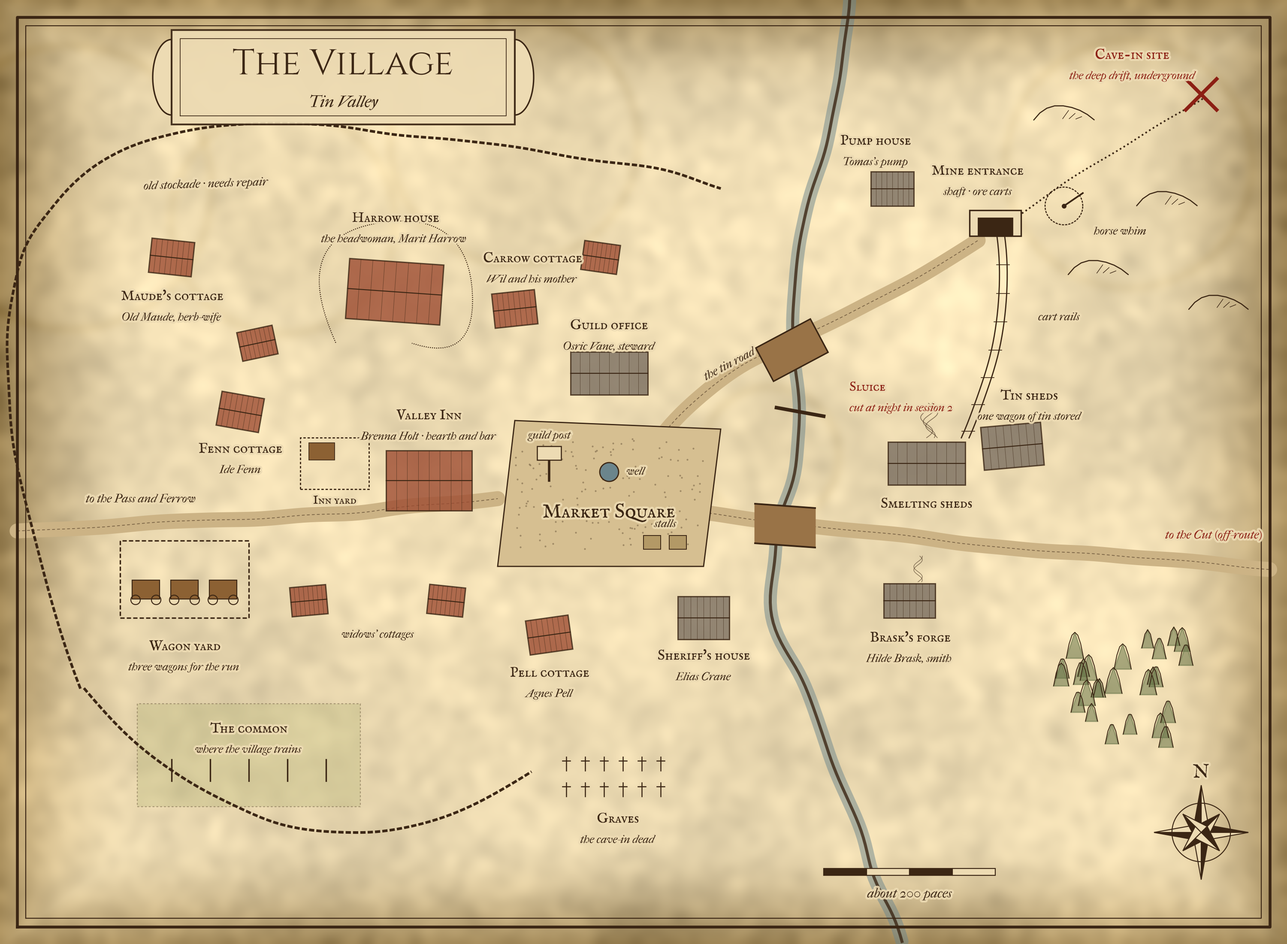
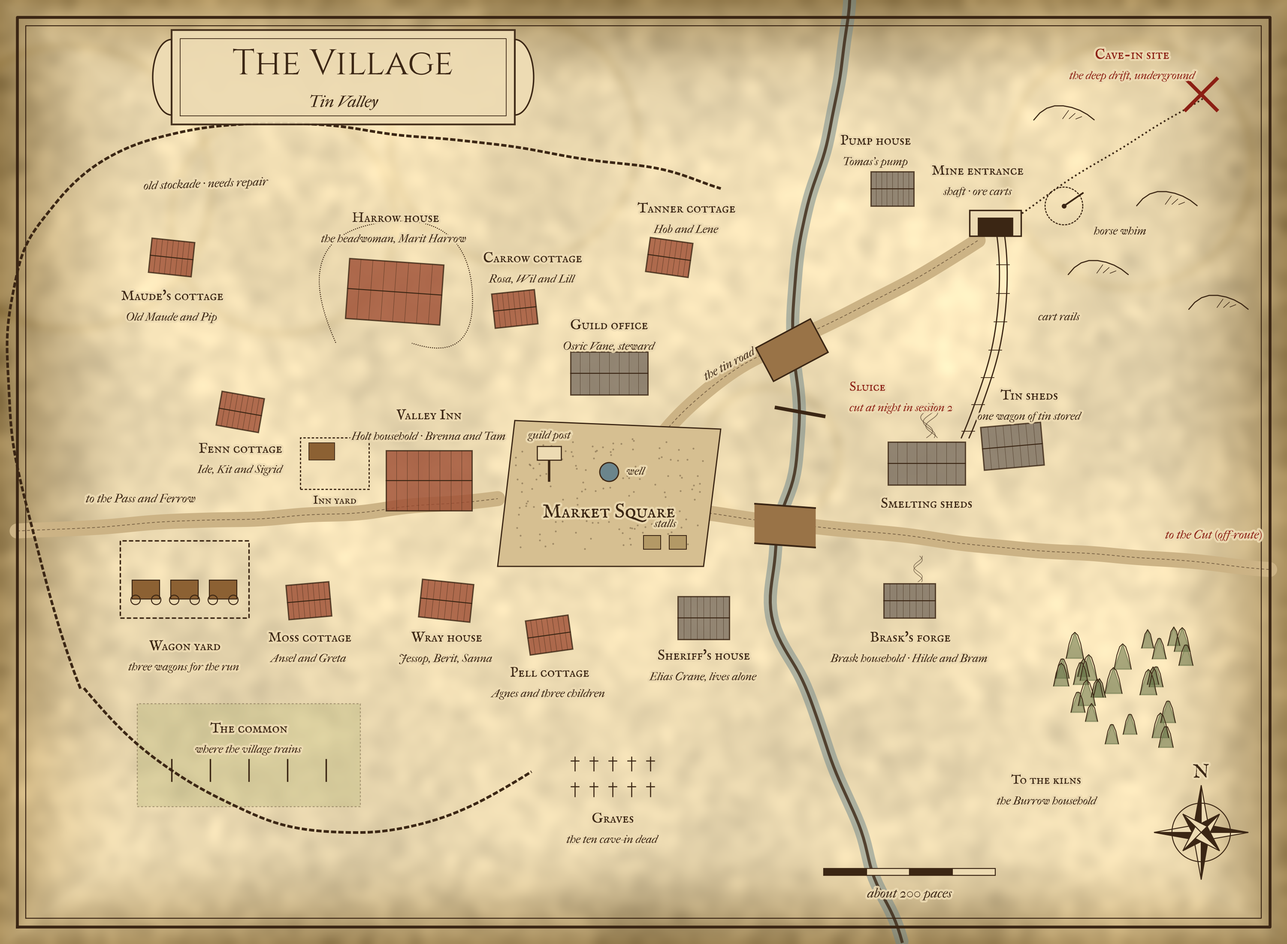
docs(adventures): rescale Tin Valley to a family mine of 11 households
- 44 people before the cave-in, 10 dead, 7 widows, 34 now
- household and role tables; 7 underground now (2 hired)
- recomputed wagon timing and training slack; 3 wagons and 60 g loan kept
- session 4 vote per household; supporting cast trimmed to households
- village and valley maps relabelled and regenerated

diff --git a/docs/adventures/swords-of-tin-valley/maps/src/village.py b/docs/adventures/swords-of-tin-valley/maps/src/village.py
@@ -42,16 +42,17 @@ for sx in (76,79):
     ax.add_patch(plt.Rectangle((sx-1,46),2,1.6,color=(0.7,0.6,0.4),ec=INK,lw=0.7,zorder=5))
 label(ax,77.5,48.9,"stalls",size=9.5,style="italic")
 # buildings
-bldg(50,54,10,7); cap(50,61.5,"Valley Inn","Brenna Holt · hearth and bar")
+bldg(50,54,10,7); cap(50,61.5,"Valley Inn","Holt household · Brenna and Tam")
 bldg(71,66.5,9,5,roof=GREY); cap(71,72,"Guild office","Osric Vane, steward")
 bldg(46,76,11,7,rot=-4); cap(46,84.5,"Harrow house","the headwoman, Marit Harrow")
 ax.plot(*wobble([(39,70),(39,82),(53,82),(53,70),(48,70)],0.1),color=INK,lw=0.8,ls=(0,(1,1.2)),zorder=5)  # yard fence
-bldg(82,38,6,5,roof=GREY); cap(82,33.5,"Sheriff's house","Elias Crane")
-bldg(64,36,5,4,rot=8); cap(64,31.5,"Pell cottage","Agnes Pell")
-bldg(28,62,5,4,rot=-10); cap(28,57.6,"Fenn cottage","Ide Fenn")
-bldg(60,74,5,4,rot=6); cap(62,79.8,"Carrow cottage","Wil and his mother")
-for (x,y,r) in [(36,40,5),(52,40,-6),(30,70,12),(70,80,-8)]: bldg(x,y,4.2,3.4,rot=r)
-label(ax,44,36,"widows' cottages",size=9.5,style="italic")
+bldg(82,38,6,5,roof=GREY); cap(82,33.5,"Sheriff's house","Elias Crane, lives alone")
+bldg(64,36,5,4,rot=8); cap(64,31.5,"Pell cottage","Agnes and three children")
+bldg(28,62,5,4,rot=-10); cap(28,57.6,"Fenn cottage","Ide, Kit and Sigrid")
+bldg(60,74,5,4,rot=6); cap(62,79.8,"Carrow cottage","Rosa, Wil and Lill")
+bldg(36,40,5,4,rot=5); cap(36,35.6,"Moss cottage","Ansel and Greta")
+bldg(52,40,6,4.4,rot=-6); cap(52,35.6,"Wray house","Jessop, Berit, Sanna")
+bldg(78,80,5,4,rot=-8); cap(80,85.6,"Tanner cottage","Hob and Lene")
 # wagon yard
 ax.add_patch(plt.Rectangle((14,38),15,9,fill=False,ec=INK,lw=1.2,ls=(0,(3,1.5)),zorder=5))
 for wx in (17,21.5,26):
@@ -68,10 +69,10 @@ x,y=wobble(stock,0.2); ax.plot(x,y,color=INK,lw=2.2,zorder=4,ls=(0,(2,0.8)))
 x2,y2=wobble([(10,30),(40,13),(62,20)],0.2); ax.plot(x2,y2,color=INK,lw=2.2,zorder=4,ls=(0,(2,0.8)))
 label(ax,24,88.5,"old stockade · needs repair",size=10,style="italic",rot=2)
 # graves
-for gx in np.arange(66,79,2.2):
+for gx in np.arange(67,77,2.2):
     for gy in (18,21):
         ax.plot([gx,gx],[gy-0.8,gy+0.8],color=INK,lw=0.9,zorder=5); ax.plot([gx-0.45,gx+0.45],[gy+0.35,gy+0.35],color=INK,lw=0.9,zorder=5)
-cap(72,14.5,"Graves","the cave-in dead")
+cap(71.4,14.5,"Graves","the ten cave-in dead")
 # bridge
 for d in (-2.3,2.3): ax.plot([88,95],[49+d,48.5+d],color=INK,lw=1.4,zorder=7)
 ax.fill([88,95,95,88],[46.7,46.2,50.8,51.3],color=(0.6,0.45,0.28),zorder=6.9)
@@ -107,9 +108,9 @@ label(ax,39,51.6,"Inn yard",size=10,font=SC)
 bldg(106,40,6,4,roof=GREY)
 for k in range(2):
     t=np.linspace(0,1,20); ax.plot(107+0.5*np.sin(t*8+k),42.2+t*3,color=INK,lw=0.5,alpha=0.6,zorder=6)
-cap(106,35.6,"Brask's forge","Hilde Brask, smith")
+cap(106,35.6,"Brask's forge","Brask household · Hilde and Bram")
 # Maude's cottage (canon)
-bldg(20,80,5,4,rot=-6); cap(20,75.4,"Maude's cottage","Old Maude, herb-wife")
+bldg(20,80,5,4,rot=-6); cap(20,75.4,"Maude's cottage","Old Maude and Pip")
 # horse whim at the shaft
 th=np.linspace(0,2*np.pi,50); ax.plot(124+2.2*np.cos(th),86+2.2*np.sin(th),color=INK,lw=0.9,ls=(0,(2,1)),zorder=6)
 ax.plot([124,126.2],[86,87.5],color=INK,lw=1.4,zorder=6); ax.plot(124,86,"o",ms=3,color=INK,zorder=6)
@@ -121,6 +122,7 @@ label(ax,85,67.5,"the tin road",size=10,style="italic",rot=28)
 # hills NE
 for (hx,hy) in [(128,78),(136,86),(142,74),(124,96)]: hill(ax,hx,hy,s=3.5)
 forest(ax,132,30,9,8,n=26,s=1.4,conifer=True)
+cap(122,19,"To the kilns","the Burrow household",size=11)
 border(ax,W,H)
 cartouche(ax,40,101,"The Village","Tin Valley",w=40,h=11)
 compass(ax,140,13,r=5.5)

diff --git a/docs/adventures/swords-of-tin-valley/maps/src/valley.py b/docs/adventures/swords-of-tin-valley/maps/src/valley.py
@@ -40,7 +40,7 @@ def house(x,y,w=2.2,h=1.6,roof=RED):
     ax.fill([x-w/2-0.3,x,x+w/2+0.3],[y+h/2,y+h/2+1.2,y+h/2],color=roof,alpha=0.75,ec=INK,lw=0.6,zorder=6.1)
 for (x,y) in [(68,50),(71,53),(74,49),(72,46),(66,46.5),(76,53),(77,46)]: house(x,y)
 label(ax,72,41.5,"The village",size=18,font=SC)
-label(ax,72,38.6,"Market Square · Valley Inn · headwoman's house",size=10,style="italic")
+label(ax,72,38.6,"eleven households · about 34 souls",size=10,style="italic")
 label(ax,62.5,53.5,"Valley Inn",size=11,font=SC,ha="right")
 label(ax,62.5,51,"at the foot of the tin road",size=9,style="italic",ha="right")
 # wagon yard
@@ -49,9 +49,9 @@ for dx in (58.2,60.8):
     ax.add_patch(plt.Rectangle((dx-0.8,45),1.6,1,color=(0.55,0.38,0.2),ec=INK,lw=0.5,zorder=6.2))
 label(ax,59.5,42.2,"Wagon yard",size=10,font=SC)
 # graves
-for gx,gy in [(68,32),(70,32.5),(72,31.8),(69,30),(71,30.4),(73,30.2),(74,32.2)]:
+for gx,gy in [(67,32),(69,32.4),(71,31.8),(73,32.3),(75,31.9),(67.6,29.9),(69.6,30.3),(71.6,29.8),(73.6,30.2),(75.6,29.9)]:
     ax.plot([gx,gx],[gy-0.6,gy+0.6],color=INK,lw=0.8,zorder=6); ax.plot([gx-0.35,gx+0.35],[gy+0.25,gy+0.25],color=INK,lw=0.8,zorder=6)
-label(ax,71,27.6,"Graves of the cave-in dead",size=10,style="italic")
+label(ax,71,27.6,"Graves of the ten cave-in dead",size=10,style="italic")
 # smelting sheds and sluice
 for (x,y) in [(90,58),(93,57)]: house(x,y,w=2.6,h=1.5,roof=(0.4,0.35,0.3))
 for k in range(3):
@@ -95,7 +95,7 @@ for kx,ky in [(105,26.5),(109,25),(107.5,29)]:
     t=np.linspace(0,np.pi,30); ax.fill(kx+1.6*np.cos(t),ky+1.1*np.sin(t),color=(0.35,0.3,0.25),ec=INK,lw=0.8,zorder=6.5)
     tt=np.linspace(0,1,20); ax.plot(kx+0.4*np.sin(tt*9),ky+1.1+tt*2.5,color=INK,lw=0.5,alpha=0.6,zorder=6.5)
 label(ax,112,27,"Charcoal kilns",size=11,font=SC,ha="left")
-label(ax,112,24.7,"Tilda Burrow's family",size=9,style="italic",ha="left")
+label(ax,112,24.7,"the Burrow household",size=9,style="italic",ha="left")
 # fields
 for fx0,fy0 in [(52,56),(56,59),(60,62)]:
     for k in range(4):

diff --git a/docs/adventures/swords-of-tin-valley.md b/docs/adventures/swords-of-tin-valley.md
@@ -1,6 +1,6 @@
 # Swords of Tin Valley
 
-Status: design draft. It extends the idea doc of 2026-10-15 with Fredrik's decisions of 2026-10-15 and 2026-10-16 (population, no gunpowder, the Ferrow hook).
+Status: design draft. It extends the idea doc of 2026-10-15 with Fredrik's decisions of 2026-10-15 and 2026-10-16 (a small family mine of 11 households, no gunpowder, the Ferrow hook).
 World: [Tin Valley](../worlds/tin-valley/).
 Inspiration: *Seven Samurai* (Kurosawa, 1954), *Godless* (Netflix, 2017), and George R. R. Martin's way with factions.
 Format: solo player. About 4 to 6 sessions.
@@ -28,7 +28,7 @@ This adventure builds relationships with NPCs over several sessions. The finale 
 
 The village tin mine is very rich. The Miners Guild wants it. The village has always refused to let the guild in.
 
-Last spring a cave-in killed 27 of the 32 men who worked underground. One of the dead was Tomas Harrow. He led the refusal. Now the widows run the mine and the village, with old men, older boys and a few hired hands (see "Village and valley population").
+The village is small: 11 families, about 44 people. Last spring a cave-in killed 10 of the 12 men who worked underground. One of the dead was Tomas Harrow. He led the refusal. Now the widows run the mine and the village, with an old man, two survivors, the older children and two hired hands (see "Village and valley population").
 
 Before he died, Tomas borrowed 60 gold from the Coldwater counting house in Ferrow, the market town beyond the pass. He paid for a water-wheel pump and its rod line, so the village could dig deeper without the guild. The loan falls due at the winter reckoning.
 
@@ -95,11 +95,11 @@ The mine is worked the old way. There is no gunpowder and no blasting.
 - **Smelting.** The tin ore is smelted with charcoal in the smelting sheds. Tin ore needs no long roasting, unlike the Swedish copper ores below. (Design assumption, not from the sources.)
 - **Fuel.** The fires, the smelting and the props all need wood. Woodcutters and charcoal burners work in the timber wood above the mine. Every household owes some days of wood and charcoal work.
 
-All of this is shown in fiction, never as rules text. It gives the GM real things to sabotage, repair and argue about: the woodpile, the sluice, the whim horses, the props, the charcoal kilns.
+All of this is shown in fiction, never as rules text. It gives the GM real things to sabotage, repair and argue about: the woodpile, the sluice, the whim horse, the props, the charcoal kilns.
 
 ## Village and valley population
 
-The 12 NPCs in the cast are the main active cast. But a mine cannot run on a handful of people. The village needs a believable population around them, so the GM can fill scenes.
+The 13 NPCs in the cast are the main active cast. Even a small family mine needs every household, so the village needs a believable population around them. This lets the GM fill scenes.
 
 ### What the sources say
 
@@ -127,86 +127,87 @@ We looked at Swedish copper mines before machines and gunpowder. Fröå gruva ou
 
 ### What we take from this
 
-- **Ratios, not totals.** Falun used about 4 to 5 men for each daily fire, counting breaking and moving the rock. Fröå had roughly 8 to 9 people in the community for each worker at the mine (618 people in 1768 against 73 at one shaft in 1779; different years, so this is rough). Falun's full chain, with distant fuel workers, came to 15 or more people per mine and furnace worker.
-- **Tin Valley is a small Fröå.** It is a farming village with a mine, not a mining town. We use about 8 people per mine worker. Fuel work is shared out as part-time duty across all households, as at Fröå, instead of a large full-time fuel crew as at Falun.
+Tin Valley is not a company works like Fröå or Falun. It is a small family mine: 11 families and a lone sheriff, about 44 people before the cave-in. The research still shapes it:
+
+- **The croft pattern (Fröå).** Every household farms a little, and the women do most of it. Every household owes days of wood, charcoal and carting. A household with no one at the mine loses out (the Fröå poorhouse rule).
+- **The fire ratio (Falun).** Falun needed about 4 to 5 men for each daily fire, counting breaking and moving the rock. Tin Valley's 8 breakers kept about 2 fires a night. Today's 4 keep 1.
+- **Fewer hands per worker.** Fröå had roughly 8 to 9 people in the community per worker at the mine (618 people in 1768 against 73 at one shaft in 1779; different years, so this is rough). Tin Valley had under 4 (44 people, 12 underground). A family mine has no company specialists, officials or distant fuel suppliers. Everyone does two jobs.
 - **Smaller fires.** The drifts are narrow, so we assume fires of about 1 m³ of wood each, not Falun's 5 m³. (Design assumption.)
 
-### Headcount, before and after the cave-in
+### Households
 
-Before the cave-in the valley had **about 280 people in about 48 households**. Today, on day 1, it has **about 250**. The cave-in killed 27 men. One family has since left for Ferrow.
+Eleven families, plus the sheriff, who lives alone. Before the cave-in: **44 people**. The cave-in killed **10**. Now: **34**.
 
-| Group | Before the cave-in | Now (day 1) | Notes |
+| # | Household | Before | Lost in the cave-in | Now | Who works where now |
+| --- | --- | --- | --- | --- | --- |
+| 1 | **Harrow** (Harrow house) | Tomas, Marit, Elin 16, Ebba 9 | Tomas | 3 | Marit keeps the tally and leads the village. Elin is in Ferrow on day 1, then sorts and carts. |
+| 2 | **Carrow** | Jon, Rosa, Wil 12, Lill 6 | Jon | 3 | Rosa sorts ore. Wil wants to go underground. |
+| 3 | **Pell** | Davy, Agnes, three children under 7 | Davy | 4 | Agnes farms and sorts. She has no one to send underground. |
+| 4 | **Fenn** | Aron, Ide, Kit 15, Sigrid 11 | Aron | 3 | Kit carries ore underground. Ide sorts and burns charcoal. |
+| 5 | **Wray** | Jessop 61, Berit 58, their son Per, his wife Sanna, two children | Per | 5 | Jessop leads underground again. Sanna carries ore. Berit runs the sorting floor. |
+| 6 | **Moss** | Ansel 27, his brother Tor, Ansel's wife Greta, a baby | Tor | 3 | Ansel sets fires and props. Greta farms for two households. |
+| 7 | **Tanner** | Gunnar 55, his son Hob 34, Hob's wife Lene, two children | Gunnar | 4 | Hob, lamed, drives the whim horse. Lene carts. |
+| 8 | **Burrow** (at the kilns) | Edvin, Tilda 45, Oskar 17, Liv 14 | Edvin and Oskar | 2 | Tilda and Liv burn charcoal and cut wood. |
+| 9 | **Brask** (the forge) | Rolf, Hilde, her nephew Bram 18 | Rolf | 2 | Hilde smiths and smelts. Bram now breaks rock underground. |
+| 10 | **Holt** (Valley Inn) | Brenna, her nephew Tam 14 | none | 2 | Brenna keeps the inn and lodges the two hired day-men. |
+| 11 | **Old Maude's cottage** | Old Maude, her grandson Pip 15 | none | 2 | Maude heals. Pip runs errands, or runs with the Tinjacks if that extension is on. |
+| – | **Sheriff's house** | Elias Crane, alone | none | 1 | Crane dug out the dead. |
+| | **Total** | **44** | **10** | **34** | |
+
+The guild's people in the valley (Osric, a clerk and Caldern) are not counted.
+
+### Work by role
+
+Most jobs are shared across households. The numbers are rough full-time equivalents.
+
+| Role | Before the cave-in | Now (day 1) | Who now |
 | --- | --- | --- | --- |
-| Fire-setters and breakers | 18 | 6 | Now Jessop Wray, 2 able survivors and 3 hired day-men. Only Jessop and Ansel can lay a fire that cracks the face and not the roof. |
-| Ore carriers in the drifts | 8 | 8 | Now 6 older boys (14 to 16) and 2 widows. The village argues about the widows going down. |
-| Shaft crew at the horse whim | 3 | 1 | Plus 2 whim horses. One hired day-man. |
-| Timbermen (props) | 2 | 1 | Now Ansel Moss, who also sets fires. |
-| Foreman | 1 | 0 | The foreman died. Jessop leads, unofficially. |
-| **Underground total** | **32** | **16** | Before, a wagon of tin took 2 to 3 days. Now it takes about 5. |
-| Sorters | 12 | 16 | Women, children, old men. Now also the two crippled survivors and more widows. |
-| Pump and whim keeper | 1 | 1 | Simeon Rudd. |
-| Smiths | 2 | 2 | Hilde Brask and her nephew. Picks, wedges and sledges need constant work. |
-| Smelters | 4 | 4 | Garth Hollin and three hands. They work at the sheds, so all survived. |
-| Woodcutters | 8 | 6 | Two left for wages in Ferrow. |
-| Charcoal burners | 4 | 4 | Tilda Burrow's family, at the kilns in the timber wood. Every household also owes wood and charcoal days in autumn. |
-| Carters | 4 | 3 | Nan Tolley and two others. Old Rook rejoins if hired. |
-| Full-time farmers | about 12 (6 households) | about 12 | Every other household also keeps a plot, cows, sheep and goats. The women do most of it. |
-| Inn, healer, sheriff | 6 | 6 | Brenna, Tam and two hands. Old Maude. Sheriff Crane. |
-| Elders (60+) not working | about 20 | about 20 | Some, like Jessop, came back to work. |
-| Children under 14 | about 110 | about 110 | About 50 have lost a father. |
-| Guild people in the valley | 3 | 3 | Osric, a clerk and Caldern. Not counted in the village total. |
-
-The groups overlap. Many people do two jobs, and the totals are rounded.
+| Fire-setters and breakers | 8 | 4 | Jessop, Ansel, Bram, one day-man. Only Jessop and Ansel can lay a fire that cracks the face and not the roof. |
+| Ore carriers in the drifts | 3 | 3 | Kit, Sanna, one day-man. The village argues about a widow going down. |
+| Foreman and timberman | 1 (Tomas) | shared | Jessop leads. Ansel sets the props. |
+| **Underground total** | **12** | **7** | Including 2 hired day-men from Ferrow. |
+| Whim and pump | 1 (Jessop) | 1 | Hob, who cannot go down any more. |
+| Sorting | about 4 | about 4 | Berit leads. Rosa, Agnes, Ide, Elin and the children. |
+| Smithing and smelting | 2 | 1 to 2 | Hilde, with whoever she can borrow. |
+| Charcoal and wood | about 3 | about 2 | The Burrows, plus every household's duty days. |
+| Carting | shared | shared | Lene, Elin and the Wray and Tanner horses. Old Rook if hired. |
+| Farming | everyone | everyone | Mostly the women. Greta and Agnes carry the most. |
 
 ### What the cave-in changed
 
-- **27 dead, 21 widows.** Six of the dead were unmarried.
-- **Half the crew, half the skill.** The underground crew is half its old size, and many of them are boys, widows or hired men. Output has halved.
-- **Hired labour costs.** The 4 Ferrow day-men are paid about 24 copper a day each in tin and board (unskilled day rate, `rules/economy.md`). Over 30 days that is nearly 6 gold, the price of two more fighters. Cutting them frees money and costs tin. That is a real choice for the player.
-- **Who gets a share.** By the village's old custom, a household shares in the tin only if someone from it works the mine. (This mirrors the Fröå rule that a croft with no worker went to the poorhouse.) Agnes has no one old enough, which is one reason she wants to sell. Ide keeps her share because her son Kit carries ore. Wil wants to go down the mine to keep the Carrow share, and his mother will not let him.
-- **Every fighter in training is a worker lost.** See the rule of thumb under "The deadline clock".
+- **10 dead, 7 widows.** Seven of the 11 families lost a husband and father: Marit, Rosa, Agnes, Ide, Sanna, Tilda and Hilde are widows. Nine families lost someone. Tilda lost a husband and a son. Twelve children lost their father.
+- **Half the crew, less skill.** The underground crew fell from 12 to 7. Two of the 7 are hired and two are young. Only two people left know how to lay a safe fire.
+- **Hired labour costs.** The 2 Ferrow day-men (Lem Drury and another) are paid about 24 copper a day each in tin and board (unskilled day rate, `rules/economy.md`). Over 30 days that is about 2.9 gold, roughly one fighter's wage. Cutting them frees that money, but it costs about 4 days on the third wagon (see "The deadline clock"). It is a real choice, and usually a bad trade.
+- **Who gets a share.** By the village's old custom, the tin is shared by the hands each household puts into the mine, and underground hands count double. (This mirrors the Fröå rule that a croft with no worker went to the poorhouse.) Agnes has no one to send, so her share has almost gone. That is one reason she wants to sell. Ide keeps a share because Kit carries ore. Wil wants to go down to win back the Carrow share, and his mother will not let him.
+- **Every fighter in training is a worker lost.** With so few people, the player trains the same people who dig, sort and burn charcoal.
+- **Eleven votes.** Each household has one vote on selling. The sheriff has none.
 
 ### Supporting cast
 
-Short lines for the GM to fill scenes. OCEAN is given where it matters. The cast table above stays the main active cast. Names marked *canon* already exist in the Tin Valley inn-world pack (`priv/adventures/tin_valley/extensions/`).
-
-**The mine and the sheds**
-
-- **Jessop Wray**, 61, the old foreman, back at work. Wants the props done right this time. O 3, C 9, E 4, A 5, N 6.
-- **Berit Wray**, 58, his wife. Runs the sorting floor. Wants the children kept out of the drifts.
-- **Ansel Moss**, 27, survivor. He was at the shaft foot, not in the deep drift. Guilt. Believes it was the guild. O 5, C 6, E 3, A 5, N 8.
-- **Hob Tanner**, 34, survivor with a crushed leg. Now sorts ore. Wants to be useful. Drinks with Crane. O 4, C 5, E 5, A 6, N 8.
-- **Kit Fenn**, 15, Ide's son. Carries ore underground. Wants to be a man, and is afraid of the dark.
-- **Rosa Carrow**, Wil's mother. Sorts ore and has not spoken since the cave-in. Wants Wil away from swords and from the mine.
-- **Simeon Rudd**, pump and whim keeper. Worries about winter fodder for the whim horses, and about the sluice.
-- **Garth Hollin**, 50, smelter master. Wants a fair share. Osric has offered him a guild wage. O 5, C 7, E 4, A 4, N 5.
-- **Lem Drury**, hired Ferrow day-man. Wants a full wage. Gossips with guild men at the inn for drink.
-- **Hilde Brask** (*canon*), the smith. Keeps the picks and wedges sharp. Buys cheap tin and does not ask where it comes from.
-
-**Wood, roads and fields**
-
-- **Tilda Burrow**, 45, charcoal burner. Lives at the kilns. Sees who passes in the woods at night, Dace's men included.
-- **The Lunde brothers, Orm and Arvid**, woodcutters. Sell timber to the guild too. Want the best price.
-- **Nan Tolley**, 40, widow and carter. Wants a seat on a wagon in the run.
-- **Coll Pruett**, farmer. Sells food to the widows on credit. Worries they cannot pay.
-- **Mags Ferrow** (*canon*), a drover who works the roads. Her family name comes from the town. Hires out mules.
+Every named villager belongs to one of the households above. The main cast stays as it is. OCEAN is given where it matters. Names marked *canon* already exist in the Tin Valley inn-world pack (`priv/adventures/tin_valley/extensions/`).
 
 **The village**
 
-- **Old Maude** (*canon*), herb-wife and healer, the village's memory. She remembers that the guild tried once before, "and the Margrave's men sent them home". It is a soft lead to the charter.
-- **Tam Holt** (*canon*), 14, Brenna's nephew at the inn yard. Sees who comes and goes at night. Can spot Tobin with Osric's man.
-- **Pip** (*canon*), 15, Maude's grandson. Only if the Tinjacks extension is on. He is in too deep with Rusk's gang.
+- **Jessop Wray** (Wray), 61, the old foreman, back underground. Wants the props done right this time. O 3, C 9, E 4, A 5, N 6.
+- **Berit Wray** (Wray), 58, his wife. Runs the sorting floor. Wants the children kept out of the drifts.
+- **Sanna Wray** (Wray), Per's widow. Carries ore underground, against Berit's wishes. Wants her children to keep a share.
+- **Ansel Moss** (Moss), 27, survivor. He was at the shaft foot, not in the deep drift. Guilt. Believes it was the guild. O 5, C 6, E 3, A 5, N 8.
+- **Hob Tanner** (Tanner), 34, survivor with a crushed leg. Drives the whim horse. Wants to be useful. Drinks with Crane. O 4, C 5, E 5, A 6, N 8.
+- **Kit Fenn** (Fenn), 15, Ide's son. Carries ore underground. Wants to be a man, and is afraid of the dark.
+- **Rosa Carrow** (Carrow), Wil's mother. Sorts ore and has not spoken since the cave-in. Wants Wil away from swords and from the mine.
+- **Tilda Burrow** (Burrow), 45. Lost her husband and her son. Burns charcoal at the kilns with her daughter Liv. Sees who passes in the woods at night, Dace's men included. Leans towards selling.
+- **Hilde Brask** (Brask, *canon*), the smith, and now the smelter too. Buys cheap tin and does not ask where it comes from. Osric has offered her a guild wage.
+- **Bram Brask** (Brask), 18, her nephew. Left the forge to break rock. Strong, and new to fire.
+- **Old Maude** (Maude's cottage, *canon*), herb-wife and healer, the village's memory. She remembers that the guild tried once before, "and the Margrave's men sent them home". It is a soft lead to the charter.
+- **Tam Holt** (Holt, *canon*), 14, Brenna's nephew at the inn yard. Sees who comes and goes at night. Can spot Tobin with Osric's man.
+- **Pip** (Maude's cottage, *canon*), 15, Maude's grandson. Only if the Tinjacks extension is on. He is in too deep with Rusk's gang.
+- **Lem Drury**, hired Ferrow day-man, lodging at the inn (Holt). Wants a full wage. Gossips with guild men for drink.
 
-**Dace's hired blades**
+**Outside the village**
 
-- **Marten Cole**, Dace's second. Wants the bonus more than Dace does, and pushes harder. O 3, C 4, E 6, A 2, N 4.
-- **Fitch**, 17, the youngest blade. Scared. He is the frightened man who breaks the no-killing order in session 5, unless someone reached him first. O 5, C 3, E 4, A 6, N 9.
-
-**Ferrow**
-
-- **Pol Garrick**, keeper of the Drover's Rest. Wants no trouble in his yard.
-- **Silky Joss**, card sharp. He took Elin's gold. Wants the next mark, not a fight.
-- **Rafe and Dob Coker**, footpads (option B). Want their winter rent.
+- **Fitch**, 17, Dace's youngest blade. Scared. He is the frightened man who breaks the no-killing order in session 5, unless someone reached him first. O 5, C 3, E 4, A 6, N 9.
+- **Silky Joss**, card sharp at the Drover's Rest in Ferrow. He took Elin's gold.
+- **Rafe and Dob Coker**, Ferrow footpads (option B). Want their winter rent.
 - **Master Ambrose Quill**, the Ferrow lawyer who wrote to Tomas. Wants his fee before he searches the registry.
 
 **Texture from the sources.** Falun miners carried a silver coin as a charm against the dangers below. [6] Wil can carry his father's coin.
@@ -303,7 +304,23 @@ The guild's charter grants rights "to iron, copper and lead and the ores thereof
 
 The pass closes on day 30. The exact day is hidden. Snow portents start on day 24. The run takes three days. So the wagons should leave by day 26. Each day after that adds risk.
 
-The village needs three wagons of tin to cover 60 gold. Today it has one in the sheds. Each further wagon takes about 5 days of mining and smelting by today's crew (16 underground, see "Village and valley population"). Before the cave-in it took 2 to 3 days. Every worker the player trains to fight, or takes on an errand, is not digging. As a rule of thumb, each 3 underground workers taken off the work add 1 day per wagon. The charcoal and wood duties work the same way.
+The village needs three wagons of tin to cover 60 gold, at about 20 gold a wagon.
+
+- **Wagon 1** is already in the tin sheds.
+- **Wagon 2** is ore that was dug before the cave-in. It lies on the sorting floor, unsorted and unsmelted. It needs about 60 worker-days of surface work (sorting, charcoal, smelting) and one charcoal burn of about a week. The surface workers also farm, cook and mind children, so they give it about half their time. With no distractions it is ready around day 17.
+- **Wagon 3** must be dug from the rich face beside the old cave-in. It needs about 100 worker-days underground (7 workers for about 14 days), then about 4 days of smelting. With the full crew from day 5, digging ends on day 18 and smelting on day 22.
+
+Loading and the last checks take until day 25, so the wagons leave on day 26.
+
+**The slack is small.** There are about 3 spare days before the wagons must leave: about 21 underground worker-days. Rules of thumb:
+
+- Every 7 underground worker-days spent on training, errands or guard duty push wagon 3 back by one day.
+- Cutting the 2 hired day-men costs about 4 days. That alone eats all the slack.
+- Surface workers taken for training slow wagon 2 at about half that rate, because their time is already split.
+
+So the player can train the whole underground crew for about 3 days in total, or the surface folk for longer, before the dates break. Training the boys and widows means less tin. Leaving them untrained means a weaker defence. That is the trade-off.
+
+These are design numbers, tuned to the clock. They are not from the sources. A check against the world's labour-anchored prices (`rules/economy.md`): wagon 3 takes about 140 worker-days in all and sells for 20 gold, about 10 months of skilled pay. That fits a rich vein.
 
 A trip to Ferrow and back takes 6 days. It is the price of the banker and charter paths.
 
@@ -370,7 +387,7 @@ The player may choose the Ferrow trip here. It costs 6 days. In Ferrow there is 
 
 ### 4. Fractures (days 18 to 24)
 
-Agnes calls a vote to sell to the guild. Osric's offer is real money. Brenna backs her sister quietly. Marit cannot win the vote alone. The player's earlier tellings and kindnesses decide who votes how.
+Agnes calls a vote to sell to the guild. Osric's offer is real money. Each of the 11 households has one vote, so the winner needs 6. Agnes starts with 3 (Pell, Holt, because Brenna backs her sister quietly, and Burrow). Marit starts with 3 (Harrow, Fenn, Wray). The other 5 are open. The player's earlier tellings and kindnesses decide who votes how.
 
 The plant acts. Tobin is caught near the wagons, or he is not. If the player turned him, he warns them instead.
 
@@ -383,7 +400,7 @@ Snow on the high peaks. Old Rook says the pass has a week, maybe less.
 
 ### 5. The pass (days 25 to 28)
 
-The wagons go. The player chooses who rides with them and who stays. Dace's men harass the road: a felled tree, a spooked team, an arrow from the scree. The guild's orders forbid open killing. A frightened man breaks those orders anyway.
+The wagons go. The player chooses who rides with them and who stays. Three wagons need three drivers (Old Rook if hired, Lene Tanner, Elin). The village has only about 20 people old enough to hold a stave, the two day-men included. Every guard on the road is one fewer defender at the mine. Dace's men harass the road: a felled tree, a spooked team, an arrow from the scree. The guild's orders forbid open killing. A frightened man breaks those orders anyway.
 
 At the same time, Osric moves on the mine. The defenders are the villagers the player trained, and whoever stayed behind.
 
@@ -446,7 +463,7 @@ Examples of weighting:
 
 Examples of compression:
 
-- Day 3: "The stranger let me carry the water to the fighters and said I did it well."
+- Day 5: "The stranger let me carry the water to the fighters and said I did it well."
 - Day 20: "The stranger trusts me."
 - Epilogue: "The stranger taught me to stand."
 
